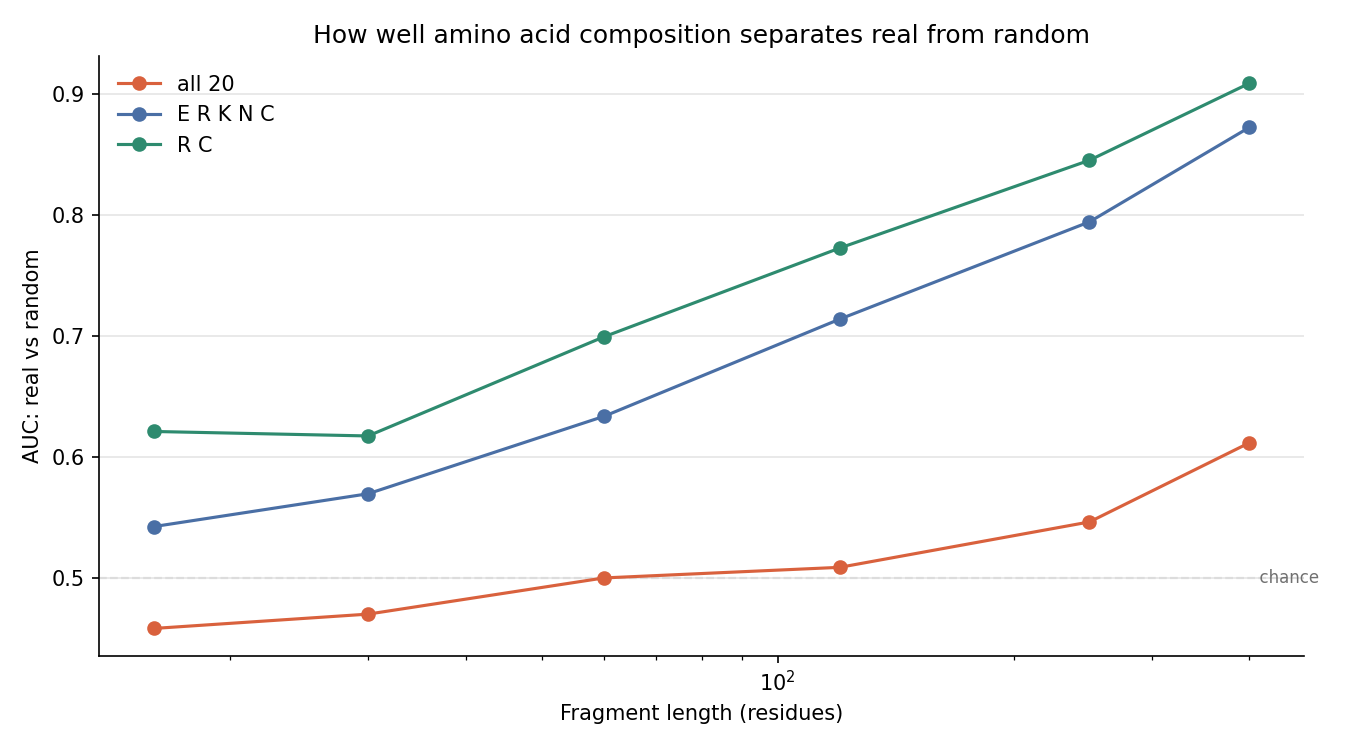
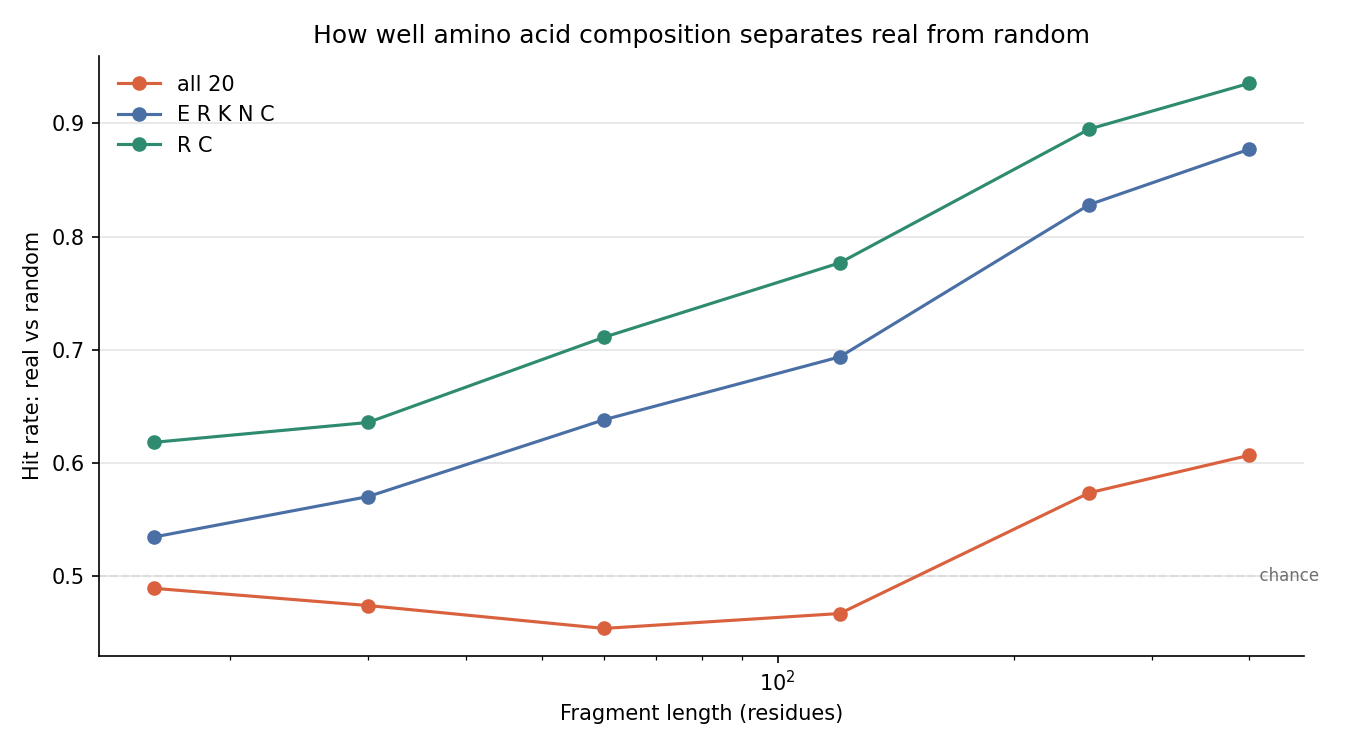
wip 30/9 a/b/c checked, d improved unchecked

diff --git a/exercises/ex4/d.py b/exercises/ex4/d.py
@@ -17,6 +17,7 @@ real protein from a single random one?
 Produces:  orf_discrimination.png
 """
 
+import itertools
 import os
 import random
 
@@ -67,10 +68,11 @@ def subset_distance(seq, reference, subset):
     return 0.5 * sum(abs(frequencies.get(a, 0) - reference.get(a, 0)) for a in subset)
 
 
-def auc(real_scores, control_scores):
+def hit_rate(real_scores, control_scores):
     """Probability that a real fragment scores closer to natural than a random one.
 
-    0.5 is chance, 1.0 is perfect separation.
+    Takes one real fragment and one random one, and counts how often the real
+    one wins, with ties worth half. 0.5 is chance, 1.0 is perfect separation.
     """
     wins = 0.0
     for r in real_scores:
@@ -80,7 +82,7 @@ def auc(real_scores, control_scores):
 
 
 def discrimination_by_length(proteins, natural_freqs, rng, samples=400):
-    """AUC of each subset, as a function of the fragment length scored.
+    """Hit rate of each subset, as a function of the fragment length scored.
 
     An ORF detector scores one ORF at a time, so what matters is not how well
     the metric separates two large corpora but how well it separates two short
@@ -99,12 +101,12 @@ def discrimination_by_length(proteins, natural_freqs, rng, samples=400):
         for name, subset in SUBSETS.items():
             real_scores = [subset_distance(f, natural_freqs, subset) for f in fragments]
             control_scores = [subset_distance(c, natural_freqs, subset) for c in controls]
-            results[name].append(auc(real_scores, control_scores))
+            results[name].append(hit_rate(real_scores, control_scores))
     return results
 
 
 def print_discrimination(results):
-    print("\nAUC separating a real fragment from a random one, by fragment length:\n")
+    print("\nHit rate separating a real fragment from a random one, by fragment length:\n")
     print(f"{'length':>8}" + "".join(f"{name:>12}" for name in results))
     for i, length in enumerate(FRAGMENT_LENGTHS):
         print(f"{length:>8}" + "".join(f"{results[n][i]:12.3f}" for n in results))
@@ -120,15 +122,86 @@ def print_single_residues(proteins, natural_freqs, rng, length=250, samples=300)
     for a in AA:
         real_scores = [subset_distance(f, natural_freqs, [a]) for f in fragments]
         control_scores = [subset_distance(c, natural_freqs, [a]) for c in controls]
-        scores.append((auc(real_scores, control_scores), a))
+        scores.append((hit_rate(real_scores, control_scores), a))
 
     scores.sort(reverse=True)
-    print(f"\nAUC of each amino acid on its own (fragments of {length}):\n")
+    print(f"\nHit rate of each amino acid on its own (fragments of {length}):\n")
     print("  " + "   ".join(f"{a}: {v:.3f}" for v, a in scores[:8]))
 
 
+# ---------------------------------------------------------------------------
+# Leave-one-organism-out: does the choice of amino acids generalise?
+# ---------------------------------------------------------------------------
+
+HOLDOUT_LENGTH = 250   # fragment length used for the held-out test
+
+
+def best_pair(train_seqs, reference, rng, samples=200):
+    """The pair of amino acids that separates best on the training organisms.
+
+    Searches every pair rather than assuming R and C: which pair wins is part
+    of what the test is checking.
+    """
+    proteins = [p for seqs in train_seqs.values() for p in seqs
+                if len(p) > HOLDOUT_LENGTH]
+    rng.shuffle(proteins)
+    chosen = proteins[:samples]
+
+    fragments = [p[rng.randrange(0, len(p) - HOLDOUT_LENGTH):][:HOLDOUT_LENGTH]
+                 for p in chosen]
+    controls = [generate_random_aa_sequence_from_dna(HOLDOUT_LENGTH) for _ in chosen]
+
+    best = None
+    for a, b in itertools.combinations(AA, 2):
+        pair = [a, b]
+        rate = hit_rate([subset_distance(f, reference, pair) for f in fragments],
+                        [subset_distance(c, reference, pair) for c in controls])
+        if best is None or rate > best[0]:
+            best = (rate, pair)
+    return best[1], best[0]
+
+
+def holdout_by_organism(real_seqs, rng, samples=200):
+    """For each organism: choose the amino acids on the other two, score on it.
+
+    The reference profile is rebuilt from the training organisms only. Pooling
+    all three would put the held-out organism inside the profile it is being
+    scored against, and the test would no longer be a test.
+    """
+    results = []
+    for held_out in real_seqs:
+        train_seqs = {name: seqs for name, seqs in real_seqs.items()
+                      if name != held_out}
+        reference = freqs("".join("".join(seqs) for seqs in train_seqs.values()))
+
+        pair, train_rate = best_pair(train_seqs, reference, rng, samples)
+
+        proteins = [p for p in real_seqs[held_out] if len(p) > HOLDOUT_LENGTH]
+        rng.shuffle(proteins)
+        chosen = proteins[:samples]
+        fragments = [p[rng.randrange(0, len(p) - HOLDOUT_LENGTH):][:HOLDOUT_LENGTH]
+                     for p in chosen]
+        controls = [generate_random_aa_sequence_from_dna(HOLDOUT_LENGTH)
+                    for _ in chosen]
+
+        test_rate = hit_rate(
+            [subset_distance(f, reference, pair) for f in fragments],
+            [subset_distance(c, reference, pair) for c in controls])
+
+        results.append((held_out, pair, train_rate, test_rate))
+    return results
+
+
+def print_holdout(results):
+    print(f"\nLeave-one-out: pair chosen on two organisms, scored on the third "
+          f"(fragments of {HOLDOUT_LENGTH}):\n")
+    print(f"{'held out':>10} {'pair':>8} {'on training':>13} {'on held out':>13}")
+    for held_out, pair, train_rate, test_rate in results:
+        print(f"{held_out:>10} {''.join(pair):>8} {train_rate:>13.3f} {test_rate:>13.3f}")
+
+
 def plot_discrimination(results):
-    """AUC against fragment length, one line per subset."""
+    """Hit rate against fragment length, one line per subset."""
     fig, ax = plt.subplots(figsize=(9, 5))
     colours = ['#d9613d', '#4a6fa5', '#2e8b6f']
     for (name, values), colour in zip(results.items(), colours):
@@ -138,7 +211,7 @@ def plot_discrimination(results):
     ax.text(FRAGMENT_LENGTHS[-1], 0.5, '  chance', va='center', fontsize=8, color='#707070')
     ax.set_xscale('log')
     ax.set_xlabel('Fragment length (residues)')
-    ax.set_ylabel('AUC: real vs random')
+    ax.set_ylabel('Hit rate: real vs random')
     ax.set_title('How well amino acid composition separates real from random')
     ax.yaxis.grid(True, color='#e5e5e5', linewidth=0.8)
     ax.set_axisbelow(True)
@@ -152,6 +225,9 @@ def plot_discrimination(results):
 
 def run():
     rng = random.Random(SAMPLE_SEED)
+    # The random controls are generated through the random module, so it needs
+    # seeding too, otherwise the reported numbers move on every run.
+    random.seed(SAMPLE_SEED)
 
     real_seqs = download_seqs()
     data_length = calculate_data_length(real_seqs)
@@ -169,6 +245,8 @@ def run():
     results = discrimination_by_length(proteins, distributions["Natural"], rng)
     print_discrimination(results)
     print_single_residues(proteins, distributions["Natural"], rng)
+
+    print_holdout(holdout_by_organism(real_seqs, rng))
 
     plot_discrimination(results)
     plt.show()

diff --git a/exercises/ex4/c.py b/exercises/ex4/c.py
@@ -1,22 +1,22 @@
-"""4c) Elija una metrica que permita comparar dos distribuciones (p.ej., RMSE).
+"""4c) Elija una metrica que permita comparar dos distribuciones. (p.ej., RMSE).
 
-Metrica elegida: distancia de variacion total (total variation distance),
-implementada en stats.distributions_distance():
-
-    TV(p, q) = 0.5 * sum_a |p(a) - q(a)|
-
-Se eligio sobre RMSE porque:
-  - Esta acotada entre 0 y 1, asi que el valor se interpreta directamente.
-  - Se lee como "que fraccion de la masa de probabilidad hay que mover para
-    convertir una distribucion en la otra".
-  - No depende de la cantidad de bins, a diferencia del RMSE crudo.
+Metrica elegida: distancia de variacion total, implementada en
+stats.distributions_distance() y usada por 4a, 4b y 4d.
 """
 
 from stats import distributions_distance
 
 
 def run():
-    raise NotImplementedError(
-        "4c es una decision de diseno: la metrica es stats.distributions_distance. "
-        "Falta escribir la justificacion en el informe."
-    )
+    """4c is a design decision, not a computation: it names the metric."""
+    print(__doc__.strip())
+    print("\n    TV(p, q) = 0.5 * sum |p(a) - q(a)|\n")
+    print("Bounded between 0 and 1, reads as the fraction of probability mass")
+    print("that has to move to turn one distribution into the other, and can be")
+    print("restricted to a subset of amino acids by summing fewer terms.")
+    print("\nThe justification is written up in informe.md.")
+
+    # A worked example, so the number is not just asserted.
+    p = {'A': 0.5, 'C': 0.5}
+    q = {'A': 0.4, 'C': 0.6}
+    print(f"\nExample: TV({p}, {q}) = {distributions_distance(p, q):.3f}")

diff --git a/informe.md b/informe.md
@@ -96,25 +96,33 @@ La parte (i) es el análisis de convergencia de 4b, donde la métrica se aplica 
 
 La matriz confirma con todos los pares lo que en 4a se veía en uno: las distancias entre organismos (0,090 a 0,122) están en el mismo orden que las distancias al azar (0,108 a 0,165). Levadura está a 0,122 de *E. coli* y a 0,165 del azar, apenas 1,4 veces más lejos.
 
-Para 4e, sin embargo, la pregunta no es cuánto se diferencian dos conjuntos grandes sino si la métrica alcanza para decidir sobre una secuencia sola. Lo medimos con AUC: se toman fragmentos de proteínas reales y secuencias al azar del mismo largo, se calcula la distancia de cada uno al perfil Natural, y se mide la probabilidad de que el fragmento real quede más cerca. 0,5 es azar y 1,0 es separación perfecta.
+Para 4e, sin embargo, la pregunta no es cuánto se diferencian dos conjuntos grandes sino si la métrica alcanza para decidir sobre una secuencia sola. Para medirlo tomamos fragmentos de proteínas reales y secuencias al azar del mismo largo, calculamos la distancia de cada uno al perfil Natural, y contamos con qué frecuencia el fragmento real queda más cerca que el aleatorio. Llamamos a eso la tasa de aciertos: 0,5 es lo que daría elegir al azar y 1,0 es separación perfecta.
 
 ![Discriminación según el largo](exercises/ex4/orf_discrimination.png)
 
 ```
   largo       20 aa   E R K N C         R C
-      16       0.490       0.537       0.614
-      30       0.445       0.566       0.624
-      60       0.473       0.631       0.703
-     120       0.490       0.712       0.800
-     250       0.568       0.820       0.892
-     400       0.609       0.879       0.936
+      16       0.489       0.535       0.618
+      30       0.474       0.570       0.636
+      60       0.454       0.638       0.711
+     120       0.467       0.694       0.777
+     250       0.574       0.828       0.895
+     400       0.607       0.877       0.935
 ```
 
-Usar los veinte aminoácidos es prácticamente inútil: se queda entre 0,44 y 0,57 hasta los 250 residuos. El motivo es de ruido, no de composición: en un fragmento de 250 residuos cada frecuencia tiene un error de muestreo de ±0,013, y sumar veinte términos de error tapa las cinco o seis diferencias que sí existen. Restringiendo la métrica a los aminoácidos que en 4a se separaban entre las dos fuentes, la AUC sube a 0,892 con R y C solos, y midiendo aminoácido por aminoácido el orden es R 0,905, E 0,722, C 0,691, K 0,629 y D 0,623.
+Usar los veinte aminoácidos es prácticamente inútil: se queda entre 0,45 y 0,57 hasta los 250 residuos. El motivo es ruido, no composición: en un fragmento de 250 residuos cada frecuencia tiene un error de muestreo, y sumar veinte términos de error tapa las cinco o seis diferencias que sí existen. Restringiendo la métrica a los aminoácidos que en 4a se separaban entre las dos fuentes, la tasa sube a 0,895 con R y C solos, y midiendo aminoácido por aminoácido el orden es R 0,900, E 0,733, C 0,699, K 0,636 y D 0,605.
 
-El límite aparece con los fragmentos cortos. A 16 residuos, que es la mediana de los ORFs medidos en 3c, el mejor subconjunto da 0,61 y los veinte juntos dan 0,49, indistinguible del azar. La señal recién se vuelve usable arriba de unos 120 residuos.
+El límite aparece con los fragmentos cortos. A 16 residuos, que es la mediana de los ORFs medidos en 3c, el mejor subconjunto da 0,62 y los veinte juntos dan 0,49, indistinguible del azar. La señal recién se vuelve usable arriba de unos 120 residuos.
 
-De ahí salen tres cosas para 4e. El largo es la señal principal, porque es la única que discrimina en ORFs cortos y porque es donde 3c mostró la diferencia más marcada (máximo real de 1121 residuos contra 231 en las secuencias al azar). La composición es una señal secundaria que sólo aporta arriba de unos 100 residuos. Y conviene usar pocos aminoácidos en lugar de los veinte, porque incluir los que no discriminan empeora el resultado.
+De ahí salen tres cosas para 4e. El largo es la señal principal, porque es la única que discrimina en ORFs cortos y porque es donde 3c mostró la diferencia más marcada (máximo real de 1121 residuos contra 231 en las secuencias al azar). La composición es una señal secundaria que sólo aporta valor arriba de unos 100 residuos. Y conviene usar pocos aminoácidos en lugar de los veinte, porque incluir los que no discriminan empeora el resultado.
 
-Queda una advertencia: el subconjunto R y C se eligió mirando los mismos datos con los que después se lo evaluó, así que 0,936 es optimista. La versión rigurosa elegiría los aminoácidos con dos organismos y evaluaría sobre el tercero.
+Queda una objeción posible: R y C se eligieron porque eran los que mejor separaban en estos datos, y después se midió con ellos sobre esos mismos datos, así que parte del 0,935 podría ser casualidad de la muestra contada como acierto. Para descartarlo repetimos el experimento dejando un organismo afuera. Se busca el mejor par entre los 190 posibles usando sólo los otros dos, se arma el perfil de referencia también sólo con esos dos, y recién entonces se mide sobre el organismo que quedó afuera, que no participó ni de la elección ni de la referencia.
+
+| Organismo afuera | Par elegido | Tasa en los dos de entrenamiento | Tasa en el que quedó afuera |
+|---|---|---|---|
+| *E. coli* | E R | 0,904 | 0,936 |
+| Levadura | E R | 0,850 | 0,882 |
+| Humano | C R | 0,959 | 0,886 |
+
+Arginina aparece en los tres pares y el segundo aminoácido alterna entre glutámico y cisteína, así que la elección no depende del organismo que se mire. Las tasas sobre el organismo dejado afuera van de 0,882 a 0,936, el mismo rango que las de entrenamiento, de modo que el 0,935 de la tabla anterior no era producto de haber elegido mirando los mismos datos. Que en dos de los tres casos la tasa sea mayor sobre el organismo dejado afuera no es raro: los organismos difieren en cuán fácil es distinguirlos del azar, y eso pesa más que la diferencia entre elegir y evaluar.
 
